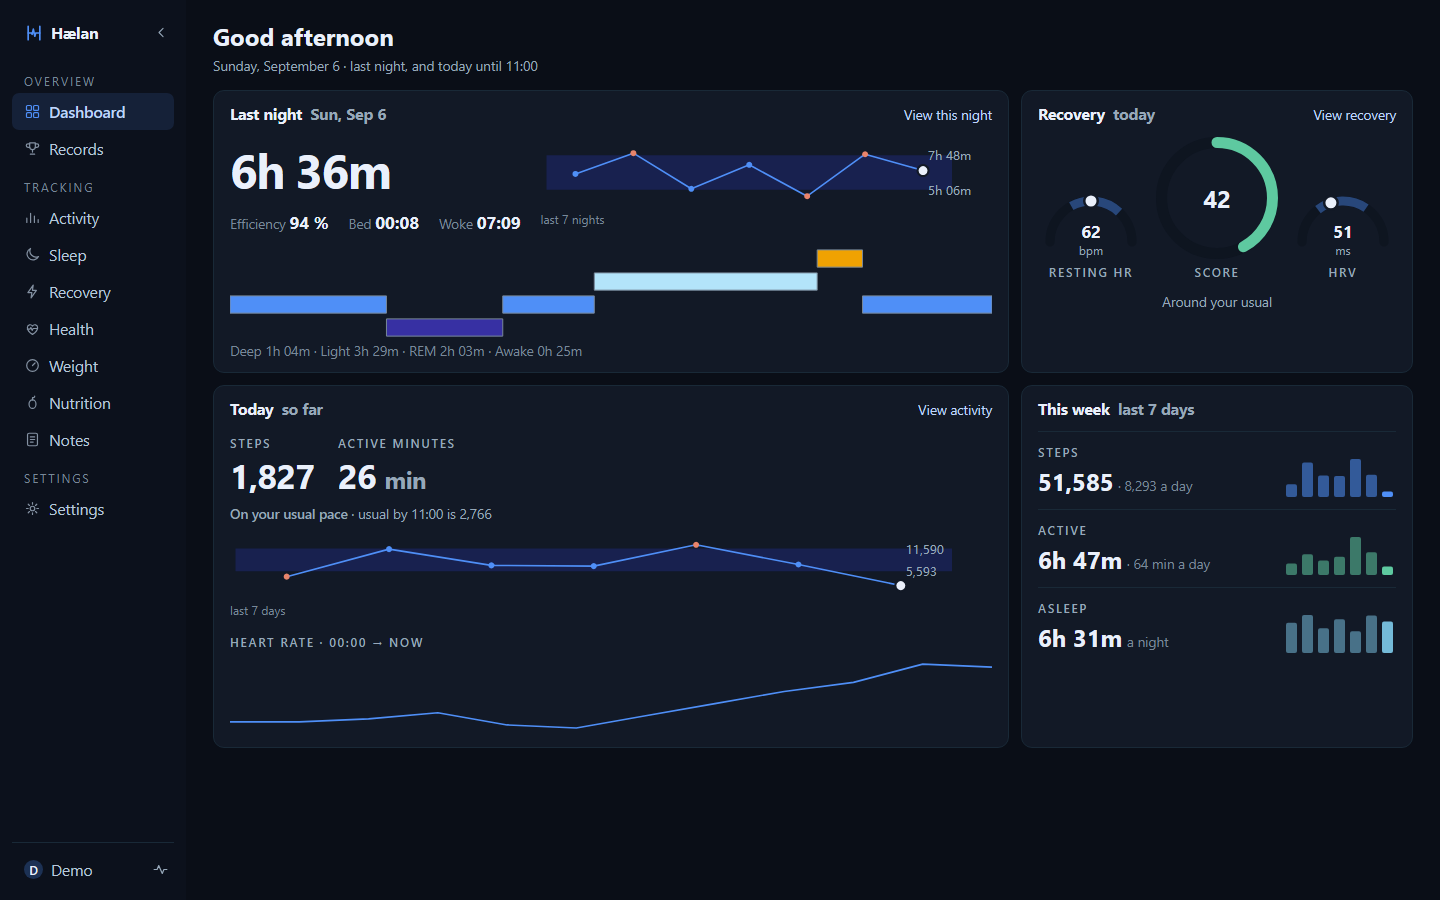
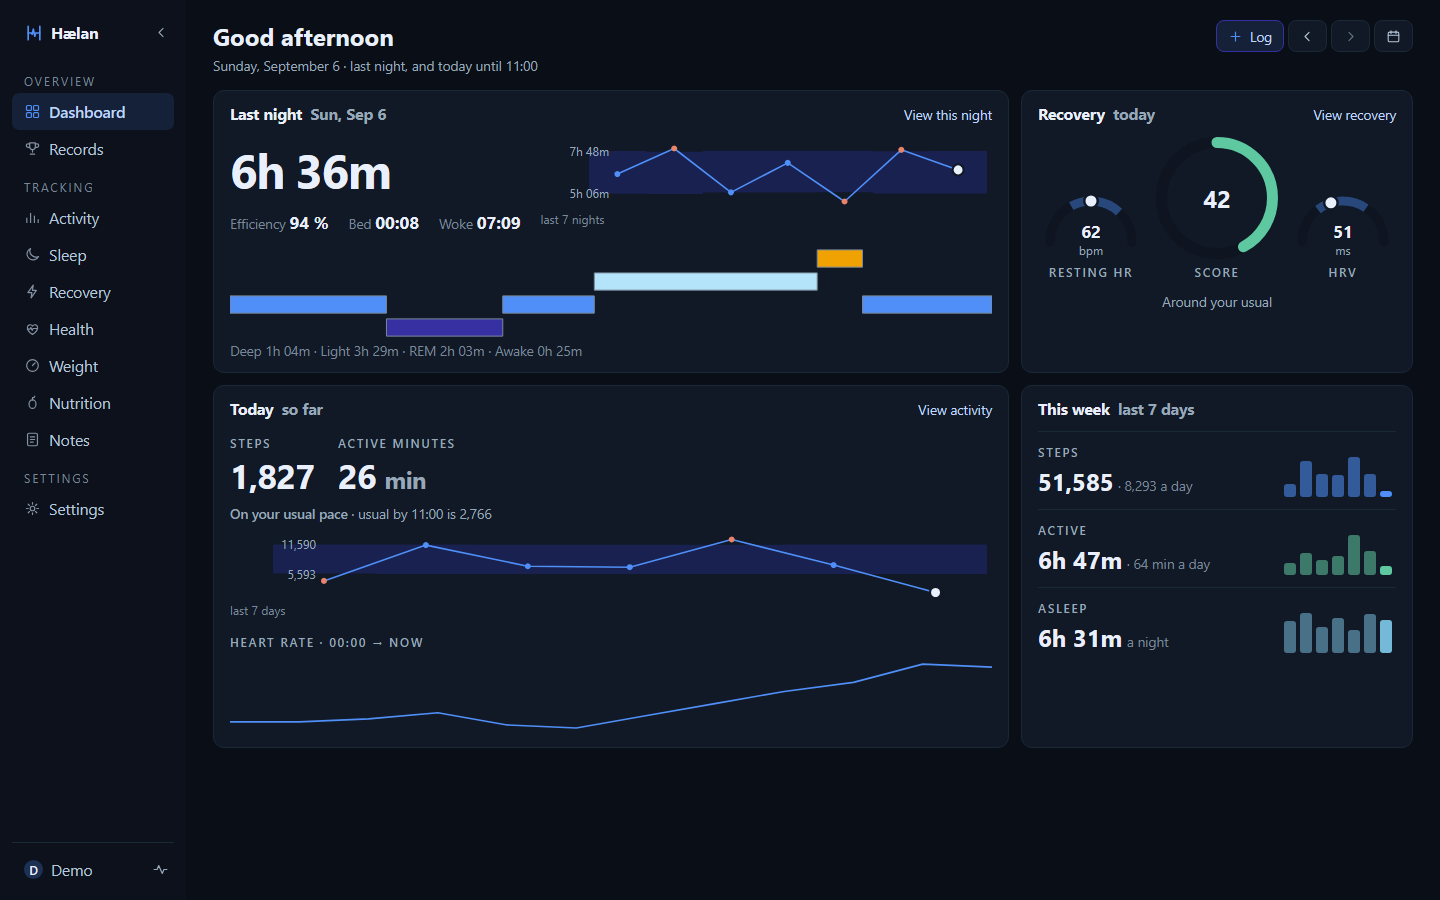
docs: the dashboard screenshot shows the Log button, and a new one shows the panel
dashboard.png retaken on the demo with quick logging on, and
log-panel.png added: the panel open on today after one tap. Listed in
scripts/screenshots.mjs, so the README's links and the landing page's
gallery carry it.

diff --git a/site/index.html b/site/index.html
@@ -51,7 +51,7 @@
            second source. -->
       <div class="hero-shot">
         <a class="shot-link" href="#shot-dashboard">
-          <img src="screenshots/dashboard.png" alt="The Hælan dashboard: last night's time asleep and sleep stages, the seven-night strip against your usual, beside a recovery score between resting heart rate and HRV gauges; today's steps with their pace against your usual, active minutes, heart rate and workouts, beside the week's totals and averages." width="1440" height="900" loading="eager" />
+          <img src="screenshots/dashboard.png" alt="The Hælan dashboard, a Log button beside the day arrows in its header: last night's time asleep and sleep stages, the seven-night strip against your usual, beside a recovery score between resting heart rate and HRV gauges; today's steps with their pace against your usual, active minutes, heart rate and workouts, beside the week's totals and averages." width="1440" height="900" loading="eager" />
         </a>
       </div>
     </header>

diff --git a/README.md b/README.md
@@ -46,13 +46,13 @@ catching them is a standing part of how the project is built rather than a past 
      page is built from. Do not edit between the markers by hand: a test regenerates this and fails
      when it disagrees. -->
 <!-- screenshots:start -->
-![The Hælan dashboard: last night's time asleep and sleep stages, the seven-night strip against your usual, beside a recovery score between resting heart rate and HRV gauges; today's steps with their pace against your usual, active minutes, heart rate and workouts, beside the week's totals and averages.](assets/screenshots/dashboard.png)
+![The Hælan dashboard, a Log button beside the day arrows in its header: last night's time asleep and sleep stages, the seven-night strip against your usual, beside a recovery score between resting heart rate and HRV gauges; today's steps with their pace against your usual, active minutes, heart rate and workouts, beside the week's totals and averages.](assets/screenshots/dashboard.png)
 
 ![The Activity page: a year heatmap of daily movement above a list of workouts, each with its distance, duration and average heart rate.](assets/screenshots/activity.png)
 
-<sub>Dashboard and Activity above; [Sleep](assets/screenshots/sleep.png) and
-[Recovery](assets/screenshots/recovery.png) as well. All four are the demo data
-`scripts/seed-demo.mjs` generates, not anybody's real health history.</sub>
+<sub>Dashboard and Activity above; [Quick logging](assets/screenshots/log-panel.png),
+[Sleep](assets/screenshots/sleep.png) and [Recovery](assets/screenshots/recovery.png) as well. All
+five are the demo data `scripts/seed-demo.mjs` generates, not anybody's real health history.</sub>
 <!-- screenshots:end -->
 
 ## What it does
@@ -309,7 +309,8 @@ Sign in as `demo` with the password `demodemo`. That password is printed by the 
 written down here on purpose: it is correct for a throwaway directory and wrong for anything else,
 and the script refuses to run against a directory that already holds a database. The data comes
 from a fixed seed, so the data behind the screenshots above regenerates identically. Dashboard,
-Sleep and Recovery were taken on the week ending 2026-09-06, which is where the demo's data ends;
+the log panel, Sleep and Recovery were taken on the week ending 2026-09-06, which is where the
+demo's data ends (the log panel after one tap on Caffeine);
 Activity was taken on August 2026, because a month is where its bar charts thin their date labels
 and a week is not. A fresh boot opens on the current month instead, so you would have to walk back
 to frame the same pictures. The range and the day both live in the URL, which is the quickest way
